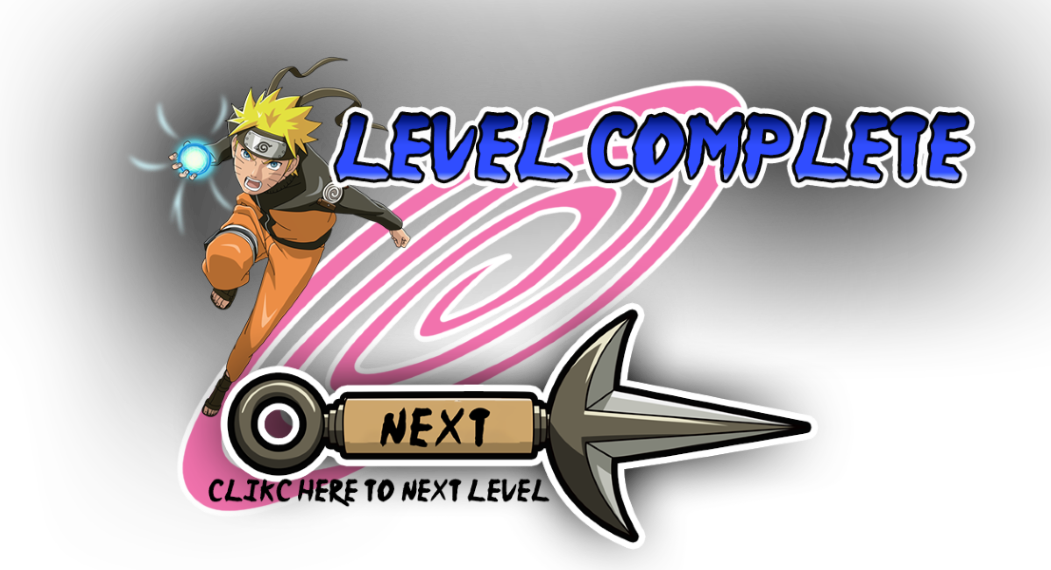
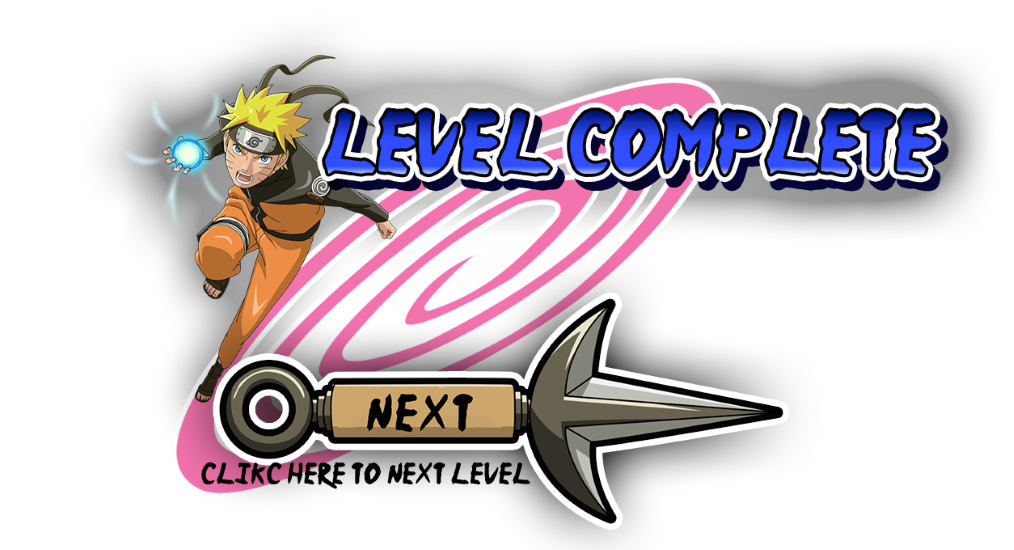
fix bug

diff --git a/src/game.py b/src/game.py
@@ -84,6 +84,9 @@ class Game:
         self.h = 240
         self.w = 470
 
+        self.img_level_complete = pygame.image.load("figure/level_complete.png")
+        self.cek_page_complete = False
+
 
     def add_score(self):
         self.__score += self.score_adding
@@ -124,24 +127,27 @@ class Game:
                     if event.type == pygame.MOUSEBUTTONDOWN and event.button == 1 :
                         for card in self.card_grup :
                             if card.rect.collidepoint(event.pos)  :
-                                if not card.shown :
-                                    self.flipped.append(card.name)
-                                    card.show()
-                                    if len(self.flipped) == 2 :
-                                        if self.flipped[0] != self.flipped[1] :
-                                            self.block_game = True
-                                        else :
-                                            self.add_score()
-                                            self.flipped = [] 
-                                            for card in self.card_grup :
-                                                if card.shown :
-                                                    self.level_complete = True
-                                                    self.cek = True
-                                                    self.time_reset()
-                                                else :
-                                                    self.level_complete = False
-                                                    self.cek = False
-                                                    break
+                                if self.cek_page_complete :
+                                    self.cek_page_complete = False
+                                else :
+                                    if not card.shown :
+                                        self.flipped.append(card.name)
+                                        card.show()
+                                        if len(self.flipped) == 2 :
+                                            if self.flipped[0] != self.flipped[1] :
+                                                self.block_game = True
+                                            else :
+                                                self.add_score()
+                                                self.flipped = [] 
+                                                for card in self.card_grup :
+                                                    if card.shown :
+                                                        self.level_complete = True
+                                                        self.cek = True
+                                                        self.time_reset()
+                                                    else :
+                                                        self.level_complete = False
+                                                        self.cek = False
+                                                        break
             else :
                 self.frame_count += 1
                 if self.frame_count == self.FPS :
@@ -173,15 +179,16 @@ class Game:
     def input_user(self,event_list):
         for event in event_list :
             if event.type == pygame.MOUSEBUTTONDOWN :
-               if self.level_complete :
-                    self.cek = True
-                    self .time_reset()
-                    self.level += 1
-                    self.time = self.level * 30
-                    if self.level > 5 :
-                        self.level = 1
-                        self.game_reset()
-                    self.generete_level(self.level)
+                if self.level_complete :
+                    if self.btn_next_level.collidepoint(event.pos) :
+                        self.cek = True
+                        self .time_reset()
+                        self.level += 1
+                        self.time = self.level * 30
+                        if self.level > 5 :
+                            self.level = 1
+                            self.game_reset()
+                        self.generete_level(self.level)
             if event.type == pygame.KEYDOWN :
                 if event.key == pygame.K_SPACE and self.level_complete :
                     self.playing = False
@@ -260,12 +267,16 @@ class Game:
             self.SCREEN.blit(image.frombuffer(self.img.tobytes(), self.shape, 'BGR'), (0, 0))
         else :
             self.get_background()
-       
+
+
+    def level_complete_page(self):
+        posx, posy = self.WIDTH // 2, 50
+        self.level_complete_page_rect = self.img_level_complete.get_rect(midtop = (posx, posy))
+        self.btn_next_level = draw.rect(self.SCREEN, (0, 0, 0), ((self.WIDTH // 2)-150, (self.HEIGTH // 2) + 85, 135, 60), border_radius=15)
+        self.SCREEN.blit(self.img_level_complete, self.level_complete_page_rect)
 
 
     def draw (self):
-
-        
         if self.cek :
             if self.level == 2 :
                 self.h = 350
@@ -304,7 +315,6 @@ class Game:
         self.SCREEN.blit(score_text, score_rect)
         self.SCREEN.blit(info_text, info_rect)
 
-
         if not self.level == 5 :
             next_level_text = self.font_content.render("Level Complete, klik the right button to next level", True, (self.BLACK))
         else :
@@ -317,5 +327,7 @@ class Game:
         self.card_grup.update()
 
         if self.level_complete :
+            self.level_complete_page()
             self.SCREEN.blit(next_level_text, text_rect)
+            self.cek_page_complete = True
 

diff --git a/src/menu.py b/src/menu.py
@@ -1,3 +1,4 @@
+from numpy import size
 import pygame
 from pygame import *
 from pygame_gui import *
@@ -147,6 +148,8 @@ class theme(Menu):
 
     def draw_menu(self) :
         self.game.draw_background()
+
+        self.put_title_game()
         # text
         game_theme = self.game.font_title.render("Game Theme", True, self.font_color)
         quit = self.game.font_content.render("Quit", True, self.font_color)
